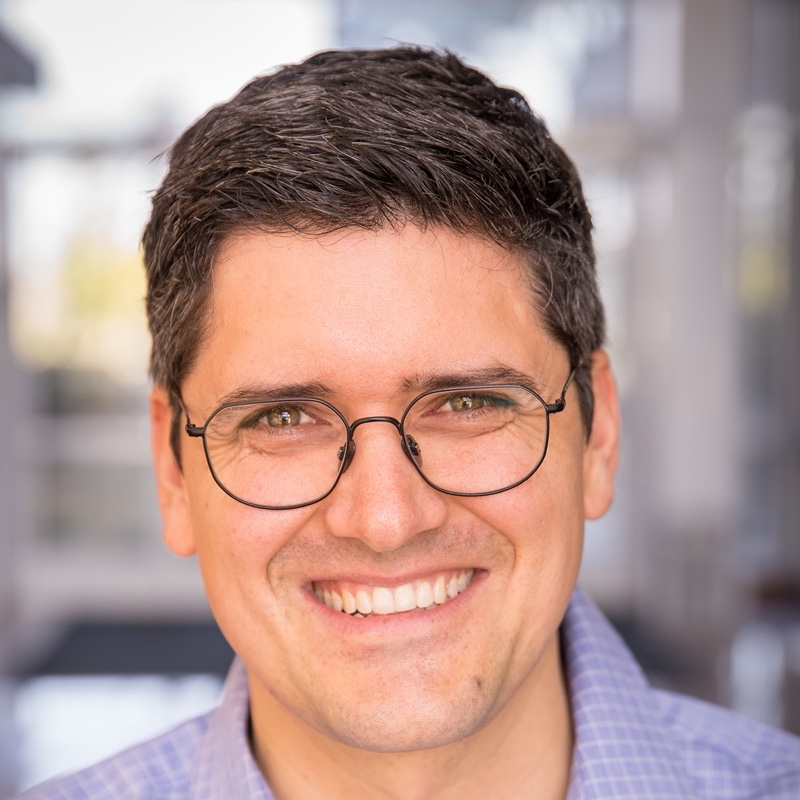
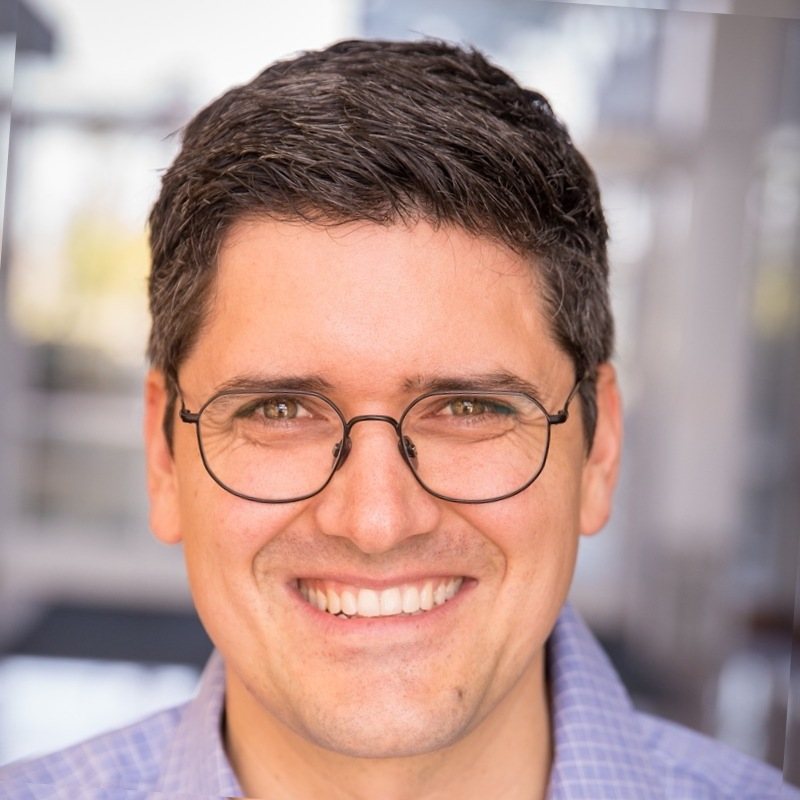
FM update

diff --git a/indexNew.html b/indexNew.html
@@ -1053,6 +1053,17 @@
       <div>Alexia Reyes<small>2023</small></div>
       <div>Mia Gonzalez<small>2020</small></div>
     </div>
+    <div class="sub next">Intern alumni</div>
+    <div class="alum rise">
+      <div>Emily Barr<small>2024</small></div>
+      <div>Aaron Wu<small>2023</small></div>
+      <div>Jesus Gomez<small>2022</small></div>
+      <div>Sara Morán<small>2022 · ENLACE</small></div>
+      <div>Ana Terminel<small>2022 · ENLACE</small></div>
+      <div>Minh Pham<small>2022</small></div>
+      <div>Matthew Morozov<small>2021</small></div>
+      <div>Eeman Iqbal<small>2020–21</small></div>
+    </div>
   </div>
 </section>
 
@@ -1290,7 +1301,15 @@ document.querySelectorAll('.tabs button').forEach(b => b.addEventListener('click
 const SHOW_TODO = true;
 const PEOPLE = {
   'clair-ma':      { bio: '', interests: [], education: [], links: {} },
-  'shaoxiu-wei':   { bio: '', interests: [], education: [], links: {} },
+  'shaoxiu-wei': {
+    title: 'PhD Candidate',
+    bio: 'Shaoxiu Wei is a 4th-year PhD Candidate in the Electrical and Computer Engineering Department at UC San Diego.',
+    interests: 'His research interests include multimodal sensing, Bayesian inference, and statistical signal processing.',
+    education: [
+      { degree: 'BS in Communication Engineering', year: '2022', school: '' },   // university not given yet
+    ],
+    links: {},
+  },
   'luisa-watkins': {
     title: 'PhD Candidate',
     bio: 'Luisa Watkins is a 5th-year PhD Candidate in Signal & Image Processing in the Electrical and Computer Engineering Department at UC San Diego. The goal of her PhD work is to research and apply signal processing techniques to underwater acoustics problems. To complement her research studies, she is also pursuing an MS in Oceanography at the Scripps Institution of Oceanography, also at UC San Diego.',
@@ -1305,8 +1324,21 @@ const PEOPLE = {
   },
   'khoa-nguyen':   { bio: '', interests: [], education: [], links: {} },
   'ryan-pai':      { bio: '', interests: [], education: [], links: {} },
-  'avik-ghosh':    { bio: '', interests: [], education: [], links: {} },
-  'mitchell-turton': { bio: '', interests: [], education: [], links: {} },
+  'avik-ghosh': {
+    bio: 'Avik Ghosh is a 2nd-year MS Student in Signal & Image Processing in the Electrical and Computer Engineering Department at UC San Diego. His research focuses on statistical inference for sparse signal recovery, particularly sparse Bayesian learning and message passing on graphical models. He also works part-time at Keysight Technologies, developing drivers for measurement instruments such as oscilloscopes and spectrum analyzers.',
+    interests: 'His research interests include statistical signal processing, Bayesian estimation, and probabilistic graphical models. He is particularly interested in developing sparse signal recovery algorithms that exploit structure in the underlying signals, with applications in wireless communications and underwater acoustics. Outside of research, he enjoys reading fiction, experimenting with coffee drinks, and learning to play the guitar.',
+    education: [
+      { degree: 'MS in Electrical and Computer Engineering (Signal and Image Processing)', year: 'expected 2027', school: 'UC San Diego' },
+      { degree: 'BS in Electrical Engineering (Signal and Image Processing)', year: '2025', school: 'UC San Diego' },
+    ],
+    links: {},
+  },
+  'mitchell-turton': {
+    bio: 'Mitchell Turton is a 4th-year Computer Engineering student at the Georgia Institute of Technology. His work focuses on developing algorithms for navigation and state estimation in GPS-denied environments, with a particular interest in marine robotics. Through his research and project experience, he has worked on localization and navigation problems for autonomous systems, including underwater vehicles. His goal is to continue developing robust estimation and navigation methods for autonomous systems operating in challenging environments.',
+    interests: 'His research interests include GPS-denied navigation, state estimation, and marine robotics. He is particularly interested in probabilistic estimation, sensor fusion, and localization techniques that allow autonomous systems to operate reliably when traditional navigation infrastructure is unavailable. Within marine robotics, he is interested in applying these methods to autonomous underwater vehicles and other robotic platforms operating in complex and uncertain environments. More broadly, his goal is to develop practical navigation and estimation algorithms that improve the autonomy and reliability of robotic systems.',
+    education: [],
+    links: {},
+  },
 };
 (() => {
   const drawer = document.getElementById('profile'), scrim = document.getElementById('profile-scrim');
